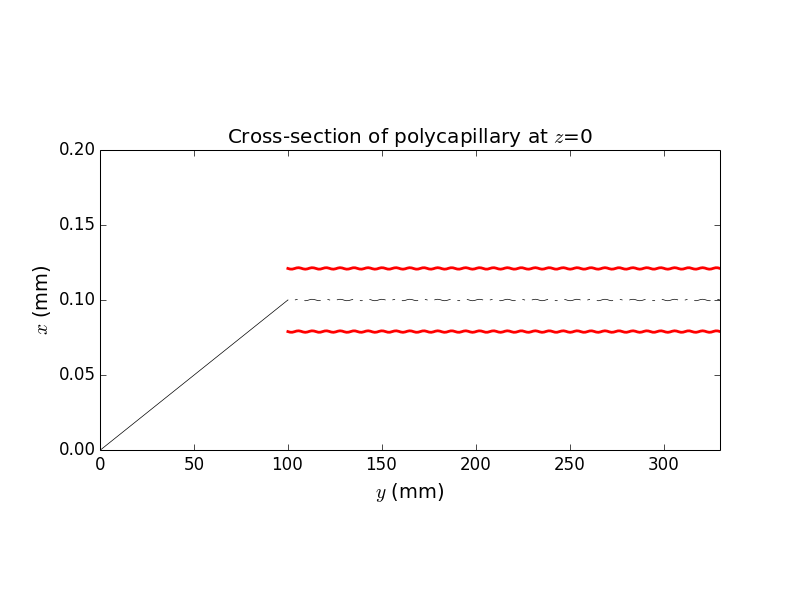
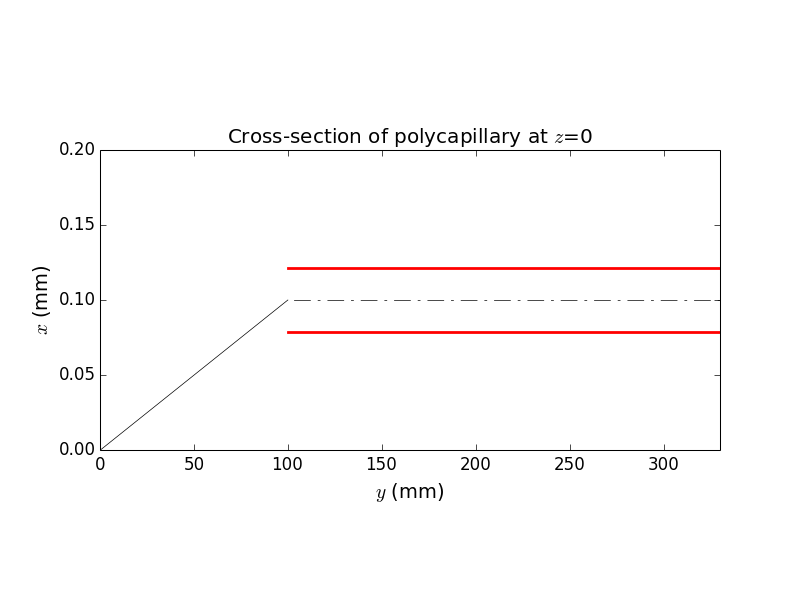
Straight, tilted check after local_r0 change

Changed region(s): [[0.3438, 0.54, 0.9062, 0.57], [0.375, 0.42, 0.9062, 0.45]]

diff --git a/StraightCapillary.py b/StraightCapillary.py
@@ -53,12 +53,12 @@ class StraightCapillary(roe.OE):
         self.isParametric = True
 
     def local_x0(self, s):  # axis of capillary, x(s)
-#        return 0*self.a0 * (s-0)**2 + self.b0
-        return 0.0005*np.sin(s*2*np.pi) + self.b0
+        return 0*self.a0 * (s-0)**2 + self.b0
+#        return 0.0005*np.sin(s*2*np.pi) + self.b0
 
     def local_x0Prime(self, s):
-#        return 2 * self.a0 * s * 0
-        return 0.0005*np.cos(s*2*np.pi)*2*np.pi
+        return 2 * self.a0 * s * 0
+#        return 0.0005*np.cos(s*2*np.pi)*2*np.pi
 
     def local_r0(self, s):  # radius of capillary (s)
 #        return self.ar * (s-self.s0)**2 + self.br
